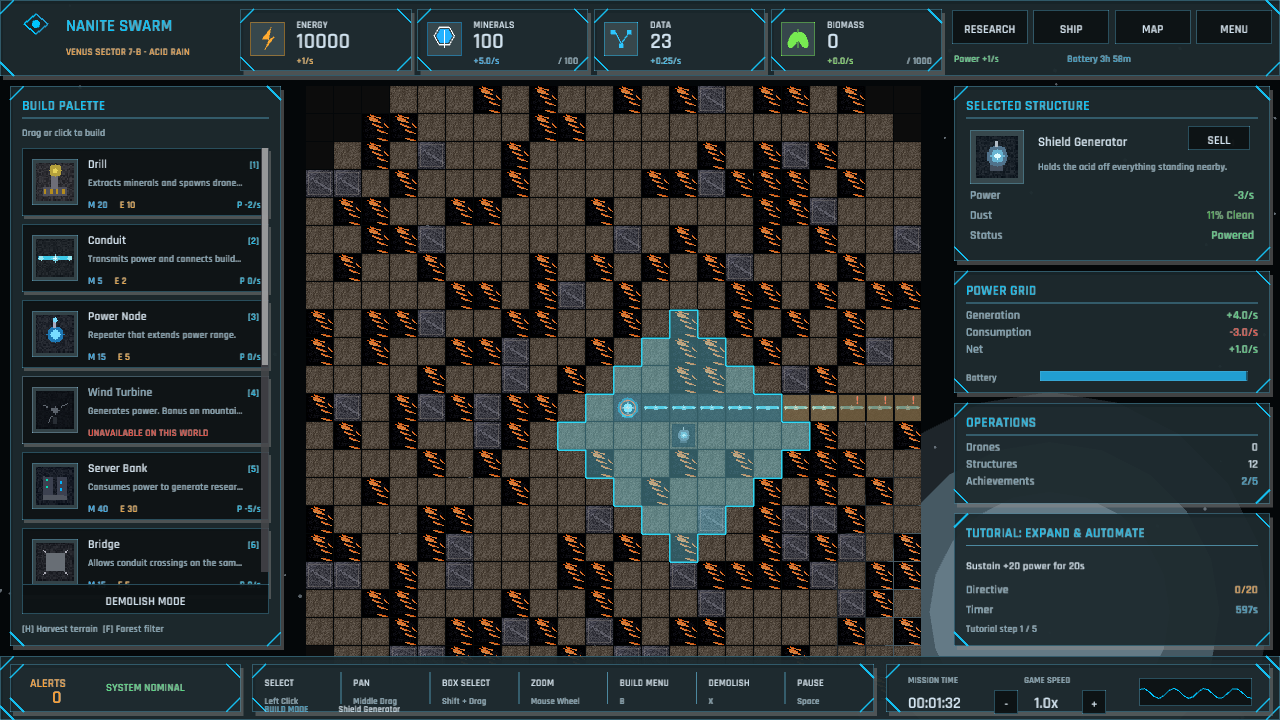
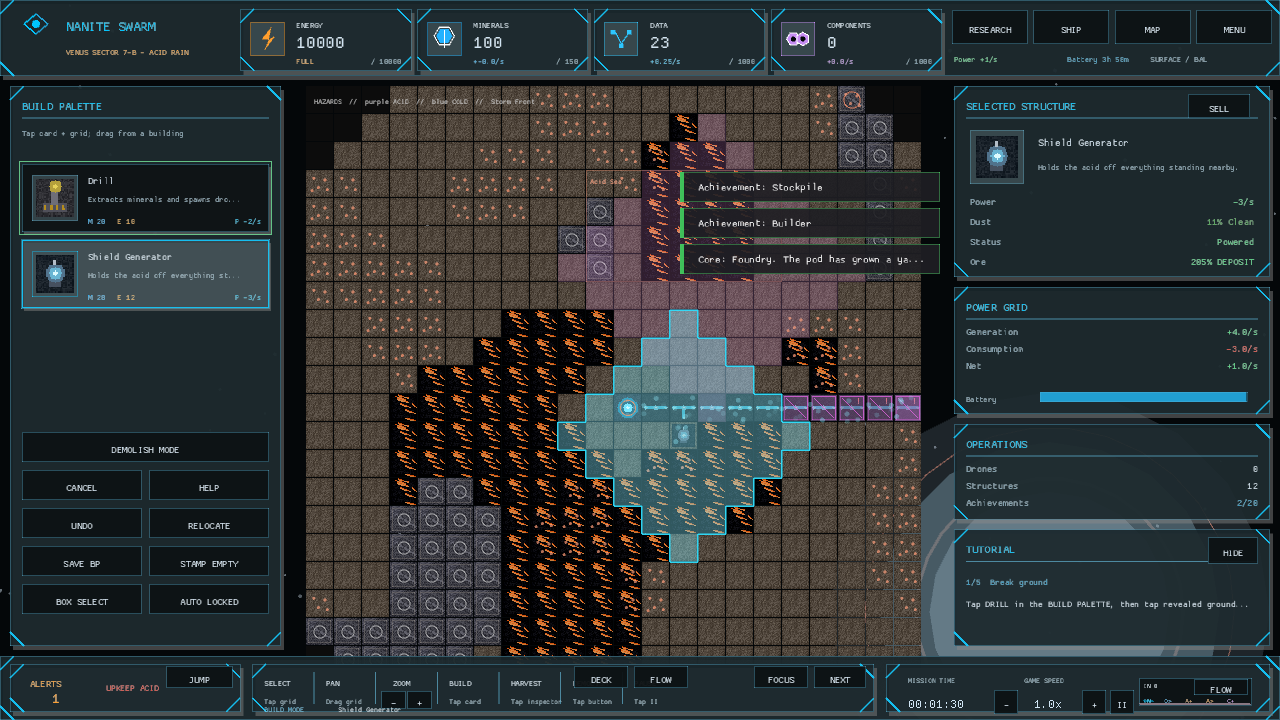
The swarm names the wear before it sends a repair crew (local upkeep alerts)
The planetary recovery card previously collapsed dust and corrosion into the generic `UPKEEP DEGRADED` label. It now reads `UPKEEP DUST`, `UPKEEP ACID`, or `UPKEEP MIXED`, using the same threshold-aware `upkeep_alert_cause` classification already used by the Solar System telemetry.

The upkeep capture fixture leaves an exposed network tile at the corrosion threshold, so the visible `JUMP` recovery surface is exercised instead of a nominal card. Regression coverage pins all three cause labels, the README describes the recovery copy, and Preview was published for Windows and WebGL.

diff --git a/src/screens/planetary_view/hud/bottom_bar/tests.rs b/src/screens/planetary_view/hud/bottom_bar/tests.rs
@@ -1,5 +1,6 @@
 use super::{
-    alert_button, has_flow_alert, has_pending_interaction, zoom_button_rects, ClockAction,
+    alert_button, has_flow_alert, has_pending_interaction, upkeep_alert_text, zoom_button_rects,
+    ClockAction,
 };
 use crate::data::GameConfig;
 use crate::state::{GraphMode, PlanetState};
@@ -44,6 +45,60 @@ fn depleted_battery_exposes_the_flow_recovery_surface() {
         alert_button(false, false, true, false, false),
         Some(("FLOW", ClockAction::ToggleFlow))
     );
+}
+
+#[test]
+fn upkeep_alert_names_the_wear_requiring_recovery() {
+    let mut state = PlanetState::new(2, 42, GameConfig::default());
+    let core = state.grid.find_core().expect("generated Core");
+    let threshold = state.resolved_dust_response().efficiency_threshold;
+
+    {
+        let building = state
+            .grid
+            .get_mut(core)
+            .expect("core tile")
+            .building
+            .as_mut()
+            .expect("core building");
+        building.acid_wear = 75.0;
+    }
+    assert_eq!(upkeep_alert_text(&state), "UPKEEP ACID");
+
+    {
+        let building = state
+            .grid
+            .get_mut(core)
+            .expect("core tile")
+            .building
+            .as_mut()
+            .expect("core building");
+        building.acid_wear = 0.0;
+    }
+
+    {
+        let building = state
+            .grid
+            .get_mut(core)
+            .expect("core tile")
+            .building
+            .as_mut()
+            .expect("core building");
+        building.dust = threshold;
+    }
+    assert_eq!(upkeep_alert_text(&state), "UPKEEP DUST");
+
+    {
+        let building = state
+            .grid
+            .get_mut(core)
+            .expect("core tile")
+            .building
+            .as_mut()
+            .expect("core building");
+        building.acid_wear = 75.0;
+    }
+    assert_eq!(upkeep_alert_text(&state), "UPKEEP MIXED");
 }
 
 #[test]

diff --git a/src/screens/planetary_view/hud/bottom_bar.rs b/src/screens/planetary_view/hud/bottom_bar.rs
@@ -4,7 +4,7 @@ mod graph;
 mod mobile;
 
 use crate::data::UiTheme;
-use crate::state::PlanetState;
+use crate::state::{PlanetState, UpkeepAlertCause};
 use crate::ui::{color_from_rgba, draw_hud_button, draw_hud_panel};
 use macroquad::prelude::*;
 use macroquad_toolkit::ui::draw_ui_text;
@@ -130,7 +130,7 @@ pub(super) fn draw(
     } else if stalled > 0 {
         "ROUTE SEVERED"
     } else if upkeep > 0 {
-        "UPKEEP DEGRADED"
+        upkeep_alert_text(state)
     } else if starved > 0 {
         "INPUT STARVED"
     } else if blocked > 0 {
@@ -537,6 +537,15 @@ fn alert_button(
         }
     } else {
         None
+    }
+}
+
+fn upkeep_alert_text(state: &PlanetState) -> &'static str {
+    match state.upkeep_alert_cause() {
+        Some(UpkeepAlertCause::Dust) => "UPKEEP DUST",
+        Some(UpkeepAlertCause::Acid) => "UPKEEP ACID",
+        Some(UpkeepAlertCause::Mixed) => "UPKEEP MIXED",
+        None => "UPKEEP DEGRADED",
     }
 }
 

diff --git a/src/capture_scenes/scenes.rs b/src/capture_scenes/scenes.rs
@@ -367,6 +367,16 @@ impl Game {
                 for _ in 0..90 {
                     planet.step(1.0, false);
                 }
+                // Leave one exposed network tile at the alert threshold so
+                // the recovery card names the maintenance cause in the still.
+                let alert_pos = engine::GridPos::new(core.x + 10, core.y);
+                if let Some(building) = planet
+                    .grid
+                    .get_mut(alert_pos)
+                    .and_then(|tile| tile.building.as_mut())
+                {
+                    building.acid_wear = 75.0;
+                }
                 // Leave the shield selected so its coverage is on screen.
                 planet.select_building(engine::BuildingType::ShieldGenerator);
                 planet.selected_tile = Some(shield);

diff --git a/README.md b/README.md
@@ -75,6 +75,8 @@ keep the FLOW button for the network diagnosis overlay.
 The same JUMP path points to buildings where dust has started reducing output
 or corrosion is nearing a network failure, and the Solar System dossier marks
 those remote worlds MAINT.
+The desktop alert card names the same local cause as `UPKEEP DUST`,
+`UPKEEP ACID`, or `UPKEEP MIXED` before JUMP focuses the first recovery.
 When it reports SAVE FAILED, tap RETRY to attempt the campaign save again.
 On the title screen, SAVE appears only after New Game or Continue/Load, so an
 existing slot cannot be overwritten before a campaign is selected.
